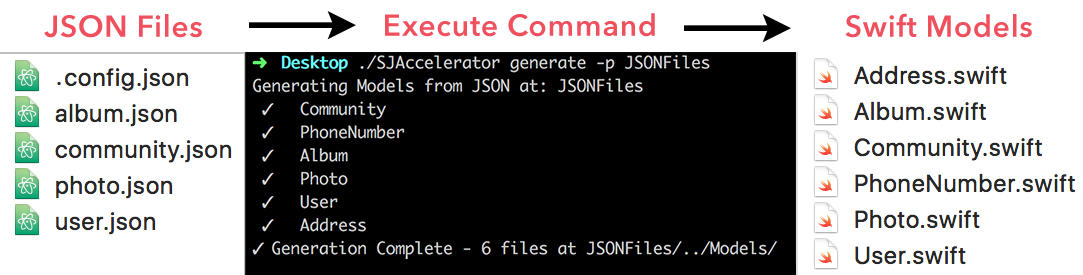
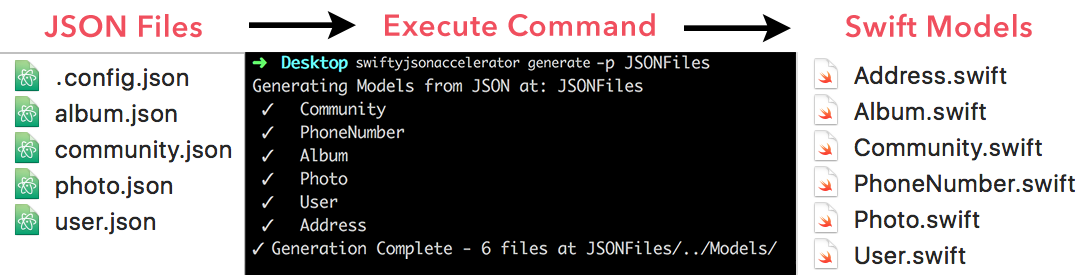
updated read me and made final fixes to makefile

Changed region(s): [[0.3352, 0.2036, 0.5485, 0.2618]]

diff --git a/README.md b/README.md
@@ -17,12 +17,17 @@ Status](https://travis-ci.org/insanoid/SwiftyJSONAccelerator.svg?branch=master)]
 
 ### App Installation
 
-- **Option 1:** Download the repo, install submodules and run the project!
-- **Option 2:** [Download the .app(v1.4.0)](https://github.com/insanoid/SwiftyJSONAccelerator/releases/download/v1.4.0/SwiftyJSONAccelerator.zip)
+- **With CLI:** Download the repo, install submodules and run the project!
 
-### CLI Installation
+  ```
+  git clone https://github.com/insanoid/SwiftyJSONAccelerator.git
+  cd SwiftyJSONAccelerator
+  make install
+  cd ..
+  rm -rf SwiftyJSONAccelerator
+  ```
 
-CLI uses `gem` to install, simply use `gem install SJAccelerator` and you should be good to go!
+- **Application Only:** [Download the .app(v1.4.0)](https://github.com/insanoid/SwiftyJSONAccelerator/releases/download/v1.4.0/SwiftyJSONAccelerator.zip)
 
 ## Features
 
@@ -98,6 +103,7 @@ There is a lot more to do, follow the [issues section](https://github.com/insano
 
 - Find solution for CLI not to have static text for templates in code.
 - Add more comprehensive tests for CLI related code.
+- Brew setup for the CLI.
 - Adding support for better libraries mentioned [here](https://github.com/bwhiteley/JSONShootout).
 - Creating a better UI for the application.
 
